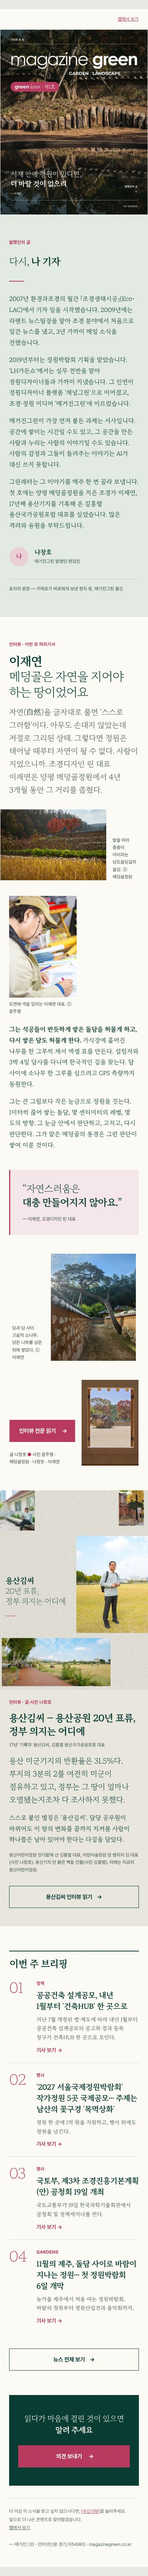
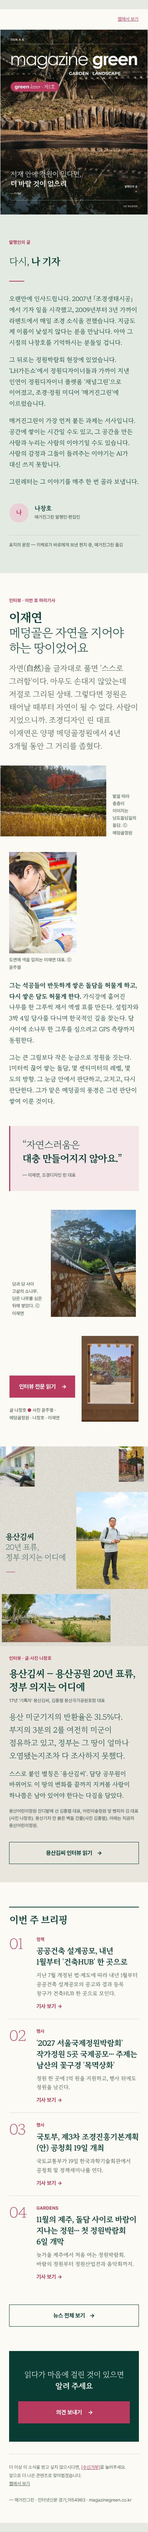
Rewrite GREENLETTER issue 1 publisher letter: warmer opening, drop issue-contents lines
Claude-Session: https://claude.ai/code/session_0133RvnuLDhVJkZitNqYaJV6

Changed region(s): [[0.0, 0.0, 1.0, 0.9968], [0.0615, 0.9657, 0.1231, 0.9968]]

diff --git a/newsletter-draft/greenletter-01.html b/newsletter-draft/greenletter-01.html
@@ -1,6 +1,6 @@
 <!DOCTYPE html>
 <html lang="ko"><head><meta charset="utf-8"><meta name="viewport" content="width=device-width, initial-scale=1"><meta name="color-scheme" content="light">
-<title>green letter 그린레터 · 시안 v27</title>
+<title>green letter 그린레터 · 시안 v28</title>
 <link rel="stylesheet" href="https://cdn.jsdelivr.net/npm/@kfonts/maruburi@0.1.0/index.css">
 <link rel="stylesheet" href="https://cdn.jsdelivr.net/npm/pretendard@1.3.9/dist/web/variable/pretendardvariable.css">
 <style>
@@ -64,10 +64,10 @@
  <div class="t-label" style="color:#B83A5E">발행인의 글</div>
  <div class="t-pub" style="margin-top:24px"><span class="lt">다시,</span> 나 기자</div>
  <div style="width:40px;border-top:2px solid #B83A5E;margin:32px 0;height:0;line-height:0;font-size:0">&nbsp;</div>
- <p class="t-body" style="margin:0px 0 0">2007년 환경과조경의 월간 「조경생태시공」(Eco-LAC)에서 기자 일을 시작했습니다. 2009년에는 라펜트 뉴스팀장을 맡아 조경 분야에서 처음으로 일간 뉴스를 냈고, 3년 가까이 매일 소식을 전했습니다.</p>
- <p class="t-body" style="margin:16px 0 0">2019년부터는 정원박람회 기획을 맡았습니다. 'LH가든쇼'에서는 실무 전반을 맡아 정원디자이너들과 가까이 지냈습니다. 그 인연이 정원디자이너 플랫폼 '채널그린'으로 이어졌고, 조경·정원 미디어 '매거진그린'에 이르렀습니다.</p>
+ <p class="t-body" style="margin:0px 0 0">오랜만에 인사드립니다. 2007년 「조경생태시공」에서 기자 일을 시작했고, 2009년부터 3년 가까이 라펜트에서 매일 조경 소식을 전했습니다. 지금도 제 이름이 낯설지 않다는 분을 만납니다. 아마 그 시절의 나창호를 기억하시는 분들일 겁니다.</p>
+ <p class="t-body" style="margin:16px 0 0">그 뒤로는 정원박람회 현장에 있었습니다. 'LH가든쇼'에서 정원디자이너들과 가까이 지낸 인연이 정원디자이너 플랫폼 '채널그린'으로 이어졌고, 조경·정원 미디어 '매거진그린'에 이르렀습니다.</p>
  <p class="t-body" style="margin:16px 0 0">매거진그린이 가장 먼저 붙든 과제는 서사입니다. 공간에 쌓이는 시간일 수도 있고, 그 공간을 만든 사람과 누리는 사람의 이야기일 수도 있습니다. 사람의 감정과 그들이 들려주는 이야기는 AI가 대신 쓰지 못합니다.</p>
- <p class="t-body" style="margin:16px 0 0">그린레터는 그 이야기를 매주 한 번 골라 보냅니다. 첫 호에는 양평 메덩골정원을 지은 조경가 이재연, 17년째 용산기지를 기록해 온 김홍렬 용산국가공원포럼 대표를 실었습니다. 많은 격려와 응원을 부탁드립니다.</p>
+ <p class="t-body" style="margin:16px 0 0">그린레터는 그 이야기를 매주 한 번 골라 보냅니다.</p>
  <table role="presentation" style="margin-top:40px"><tr>
   <td width="64" valign="middle"><table role="presentation"><tr><td width="48" height="48" align="center" valign="middle" class="t-cap" style="width:48px;height:48px;border-radius:24px;background:#EBCFD7;color:#B83A5E;font-family:'마루 부리','MaruBuri','Nanum Myeongjo','AppleMyungjo','Batang','바탕',serif;font-size:16px;font-weight:700">나</td></tr></table></td>
   <td valign="middle"><div class="t-h3" style="font-size:16px;line-height:1.4">나창호</div><div class="t-cap" style="margin-top:2px">매거진그린 발행인·편집인</div></td></tr></table>
